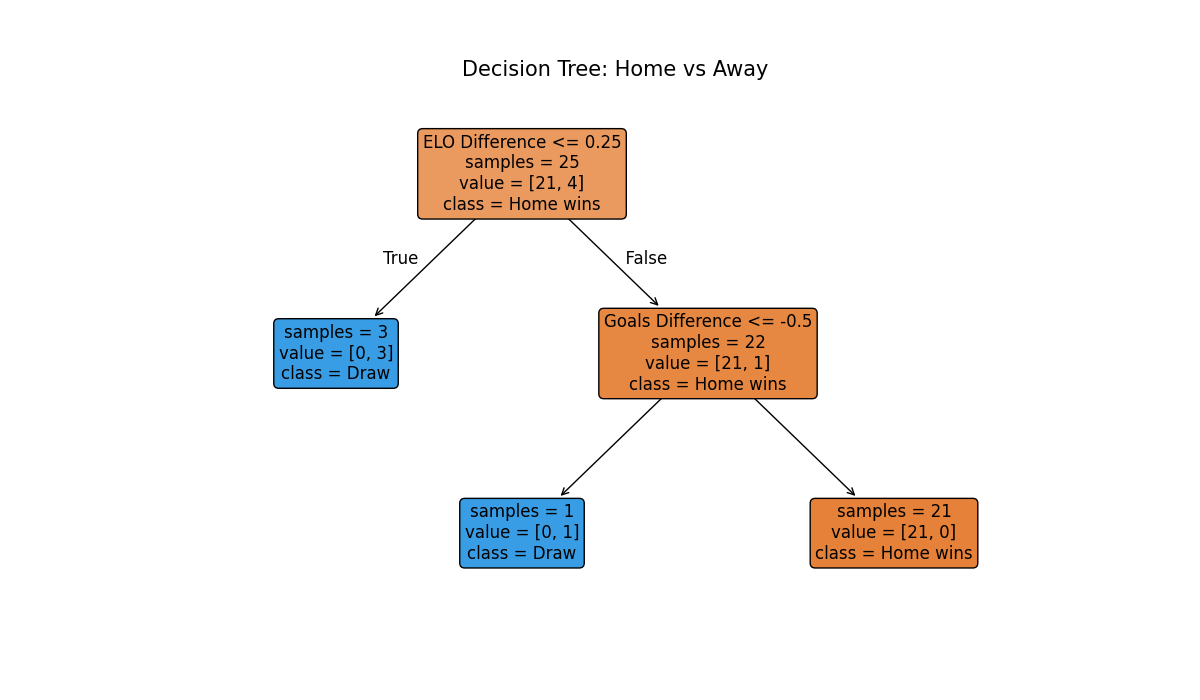
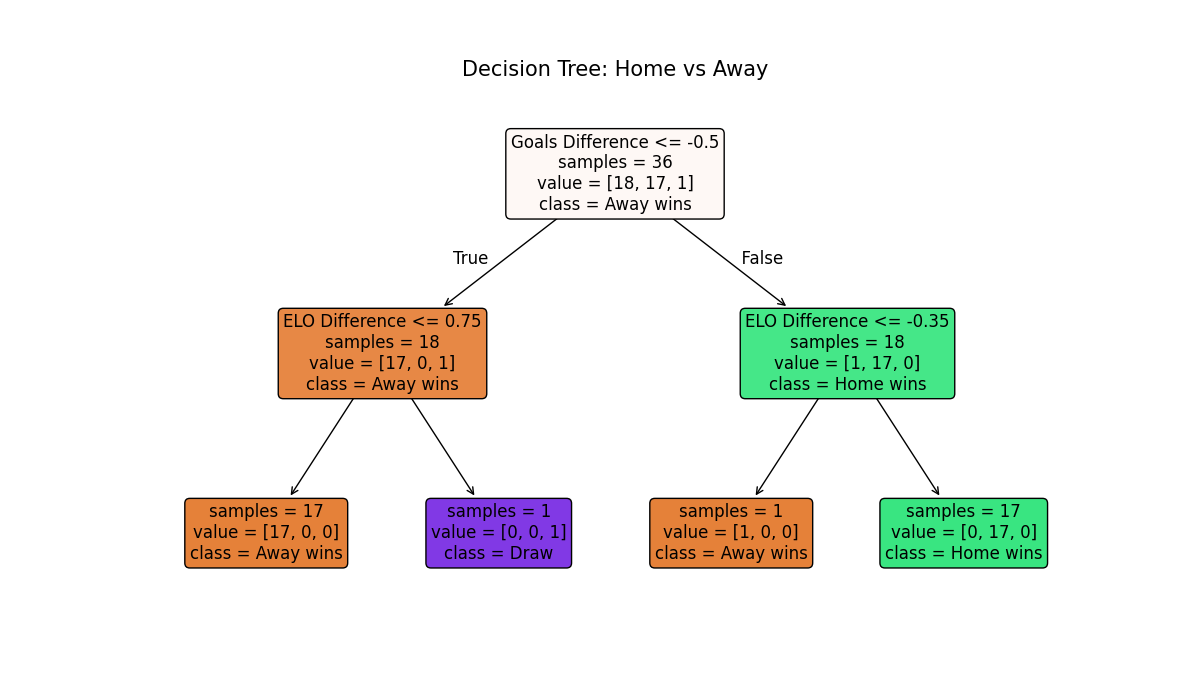
Next game: NL vs Morocco. Added the data. More features coming soon

diff --git a/src/ml_predictor_plot.py b/src/ml_predictor_plot.py
@@ -12,12 +12,12 @@ def plot_tree_ml():
     output_path = os.path.join(output_dir, "tree.png")
 
     # ELO per match
-    y_elo_home = [8.4, 7.3, 6.8, 6, 6.5]
-    y_elo_away = [6, 5, 5, 6, 6]
+    y_elo_home = [7.5,8.4, 7.3, 6.8, 6, 6.5]
+    y_elo_away = [7,5,7,6,7.5,7.5]
 
     # Goals per match
-    home_goals = [5, 2, 2, 0, 1]
-    away_goals = [0, 1, 0, 0, 0]
+    home_goals = [3,5, 2, 2, 0, 1]
+    away_goals = [4,1,1,1,4,5]
 
     # Averages, needed for the upcoming prediction
     elo_mean_home = np.mean(y_elo_home)
@@ -85,3 +85,4 @@ def plot_tree_ml():
     plt.show()
 
 
+plot_tree_ml()